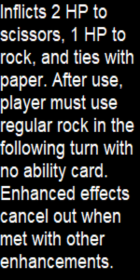
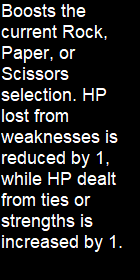
Added ability card functionality

diff --git a/game_display.py b/game_display.py
@@ -50,10 +50,11 @@ def game_intro():
 
         pygame.display.update()
 
-    pygame.mixer.music.stop()
+    pygame.mixer.music.fadeout(1000)
+    time.sleep(0.5)
     select_sound = pygame.mixer.Sound("audio/sfx/game_start.wav")
     pygame.mixer.Sound.play(select_sound)
-    time.sleep(2)
+    time.sleep(1.5)
     screen.fill((0, 0, 0))
     pygame.event.clear()
     story_loop()
@@ -101,7 +102,7 @@ def story_loop():
         pygame.display.update()
 
     screen.fill((0, 0, 0))
-    pygame.mixer.music.stop()
+    pygame.mixer.music.fadeout(1000)
     pygame.event.clear()
     setup_loop()
 
@@ -157,12 +158,12 @@ def setup_loop():
     playerCards = []
     oppOrder = []
     for i in range(0, 5):
-        cardID = random.randint(0, 9)
+        cardID = random.randint(1, 7)
         while cardID in playerCards:
-            cardID = random.randint(0, 9)
-        cardID2 = random.randint(0, 9)
+            cardID = random.randint(1, 7)
+        cardID2 = random.randint(1, 7)
         while cardID2 in oppOrder:
-            cardID2 = random.randint(0, 9)
+            cardID2 = random.randint(1, 7)
         playerCards.append(cardID)
         oppOrder.append(cardID2)
 
@@ -328,7 +329,6 @@ def card_loop(battle, player, opponent):
 
         if skip:
             card = False
-            print(battle.playerCard)
         if activeCard:
             battle.playerCard = player.cardOrder[0]
             card = False
@@ -412,6 +412,7 @@ def action_loop(battle, player, opponent):
     victory = False
     gameover = False
     action = True
+    clairvoyant = False
     while action:
         for event in pygame.event.get():
             if event.type == pygame.QUIT:  # if close button is pressed, quit game
@@ -433,8 +434,29 @@ def action_loop(battle, player, opponent):
                         gameover_loop()
                     else:
                         battle.calculateDamage()
+
+                        if battle.playerCard > -1 and cards.getCardDict()[battle.playerCard] == "Give Dummy":
+                            battle.storedOCard = opponent.cardOrder[1]
+                            opponent.cardOrder[1] = 0
+                        if battle.opponentCard > -1 and cards.getCardDict()[battle.opponentCard] == "Give Dummy":
+                            battle.storedPCard = player.cardOrder[1]
+                            player.cardOrder[1] = 0
+                        if battle.playerCard > -1 and cards.getCardDict()[battle.playerCard] == "Dummy":
+                            player.cardOrder[0] = battle.storedPCard
+                            battle.storedPCard = -1
+                        if battle.opponentCard > -1 and cards.getCardDict()[battle.opponentCard] == "Dummy":
+                            opponent.cardOrder[0] = battle.storedOCard
+                            battle.storedOCard = -1
+                        if battle.playerCard > -1 and cards.getCardDict()[battle.playerCard] == "Clairvoyant":
+                            clairvoyant = True
+                            desc = pygame.image.load('images/descriptions/' + str(opponent.cardOrder[1]) + '.png')
+
                         topText = player.name + " took " + str(battle.playerDamage) + " HP of damage!"
+                        if battle.playerDamage < 0:
+                            topText = player.name + " recovered " + str(battle.playerDamage * -1) + " HP!"
                         botText = opponent.name + " took " + str(battle.opponentDamage) + " HP of damage!"
+                        if battle.opponentDamage < 0:
+                            botText = opponent.name + " recovered " + str(battle.opponentDamage * -1) + " HP!"
                         if player.HP > 0 and opponent.HP > 0:
                             battle.playerDamage = 0
                             battle.opponentDamage = 0
@@ -444,9 +466,9 @@ def action_loop(battle, player, opponent):
                             if battle.opponentCard > -1:
                                 opponent.nextCard()
                             reset = True
-                        elif opponent.HP == 0:
+                        elif opponent.HP <= 0:
                             victory = True
-                        elif player.HP == 0:
+                        elif player.HP <= 0:
                             gameover = True
 
         screen.fill((0, 0, 0))
@@ -476,6 +498,12 @@ def action_loop(battle, player, opponent):
         TextSurf2, TextRect2 = text_objects(botText, text)
         TextRect2.center = ((screen_width * 0.5), (screen_height * 0.9))
         screen.blit(TextSurf2, TextRect2)
+
+        if clairvoyant:
+            TextSurfC, TextRectC = text_objects("Opponent's next card: " + cards.getCardDict()[opponent.cardOrder[1]], text)
+            TextRectC.center = ((screen_width * 0.7), screen_height * 0.02)
+            screen.blit(TextSurfC, TextRectC)
+            screen.blit(desc, (screen_width * 0.7, screen_height * 0.1))
 
         pygame.display.update()
 

diff --git a/cards.py b/cards.py
@@ -1,14 +1,71 @@
+import game_display
+import battle_state
+import player
+
 def getCardDict():
     cardDict = {
-        0: "Dummy",
-        1: "Give Dummy",
-        2: "Enhanced Rock",
-        3: "Enhanced Paper",
-        4: "Enhanced Scissors",
-        5: "Shield",
-        6: "Clairvoyant",
-        7: "Shoot",
-        8: "Mini-Shoot",
-        9: "Disable"
+        0: "Dummy",  # no code
+        1: "Give Dummy",  # in game_display
+        2: "Enhancement",  # below
+        3: "Shield",    # below
+        4: "Super Shield",  # in battle_state
+        5: "Clairvoyant",  # in game_display
+        6: "Beam",  # below
+        7: "Rest"  # in battle_state
     }
     return cardDict
+
+def cardEffect(id, playerRPS, oppRPS):
+    playerDamage = 0
+    oppDamage = 0
+    if id == 2:
+        if playerRPS == "Rock":
+            playerDamage, oppDamage = eRock(oppRPS)
+        elif playerRPS == "Paper":
+            playerDamage, oppDamage = ePaper(oppRPS)
+        elif playerRPS == "Scissors":
+            playerDamage, oppDamage = eScissors(oppRPS)
+    elif id == 3:
+        playerDamage, oppDamage = shield()
+    elif id == 6:
+        playerDamage, oppDamage = beam()
+    return playerDamage, oppDamage
+
+def eRock(oppRPS):
+    playerDamage = 0
+    oppDamage = 0
+    if oppRPS == "Rock":
+        oppDamage = 1
+    elif oppRPS == "Paper":
+        playerDamage = -1
+    elif oppRPS == "Scissors":
+        oppDamage = 1
+    return playerDamage, oppDamage
+
+def ePaper(oppRPS):
+    playerDamage = 0
+    oppDamage = 0
+    if oppRPS == "Paper":
+        oppDamage = 1
+    elif oppRPS == "Scissors":
+        playerDamage = -1
+    elif oppRPS == "Rock":
+        oppDamage = 1
+    return playerDamage, oppDamage
+
+def eScissors(oppRPS):
+    playerDamage = 0
+    oppDamage = 0
+    if oppRPS == "Scissors":
+        oppDamage = 1
+    elif oppRPS == "Rock":
+        playerDamage = -1
+    elif oppRPS == "Paper":
+        oppDamage = 1
+    return playerDamage, oppDamage
+
+def shield():
+    return -1, 0
+
+def beam():
+    return 0, 1

diff --git a/battle_state.py b/battle_state.py
@@ -13,6 +13,8 @@ class BattleState:
         self.opponentCard = -1
         self.playerDamage = 0
         self.opponentDamage = 0
+        self.storedPCard = -1
+        self.storedOCard = -1
 
     def nextTurn(self):
         self.turn_counter = self.turn_counter + 1
@@ -36,6 +38,8 @@ class BattleState:
         selected = random.randint(1, 10)
         if selected > 3:
             self.opponentCard = self.opponent.cardOrder[0]
+        else:
+            self.opponentCard = -1
 
     def calculateDamage(self):
         if self.playerRPS == "Rock":
@@ -54,8 +58,26 @@ class BattleState:
             elif self.opponentRPS == "Paper":
                 self.opponentDamage = 1
 
-        pCard = self.playerCard
-        oCard = self.opponentCard
+        pDam1, oDam1 = cards.cardEffect(self.playerCard, self.playerRPS, self.opponentRPS)
+        oDam2, pDam2 = cards.cardEffect(self.opponentCard, self.opponentRPS, self.playerRPS)
+
+        self.playerDamage = self.playerDamage + pDam1 + pDam2
+        self.opponentDamage = self.opponentDamage + oDam1 + oDam2
+
+        if self.playerDamage < 0:
+            self.playerDamage = 0
+        if self.opponentDamage < 0:
+            self.opponentDamage = 0
+
+        if self.playerCard > -1 and cards.getCardDict()[self.playerCard] == "Super Shield":
+            self.playerDamage = 0
+        if self.opponentCard > -1 and cards.getCardDict()[self.opponentCard] == "Super Shield":
+            self.opponentDamage = 0
+
+        if self.playerCard > -1 and cards.getCardDict()[self.playerCard] == "Rest" and self.playerDamage == 0:
+            self.playerDamage = -1
+        if self.opponentCard > -1 and cards.getCardDict()[self.opponentCard] == "Rest" and self.opponentDamage == 0:
+            self.opponentDamage = -1
 
         self.opponent.HP = self.opponent.HP - self.opponentDamage
         self.player.HP = self.player.HP - self.playerDamage

diff --git a/player.py b/player.py
@@ -12,6 +12,6 @@ class Player:
         print(self.name + "'s new HP is: " + str(self.HP))
 
     def nextCard(self):
-        print("Card order before rotation: " + ','.join(map(str, self.cardOrder)))
+        print(self.name + " card order before rotation: " + ','.join(map(str, self.cardOrder)))
         self.cardOrder = self.cardOrder[1:] + self.cardOrder[:1]
-        print("Card order after rotation: " + ','.join(map(str, self.cardOrder)))
+        print(self.name + " card order after rotation: " + ','.join(map(str, self.cardOrder)))
